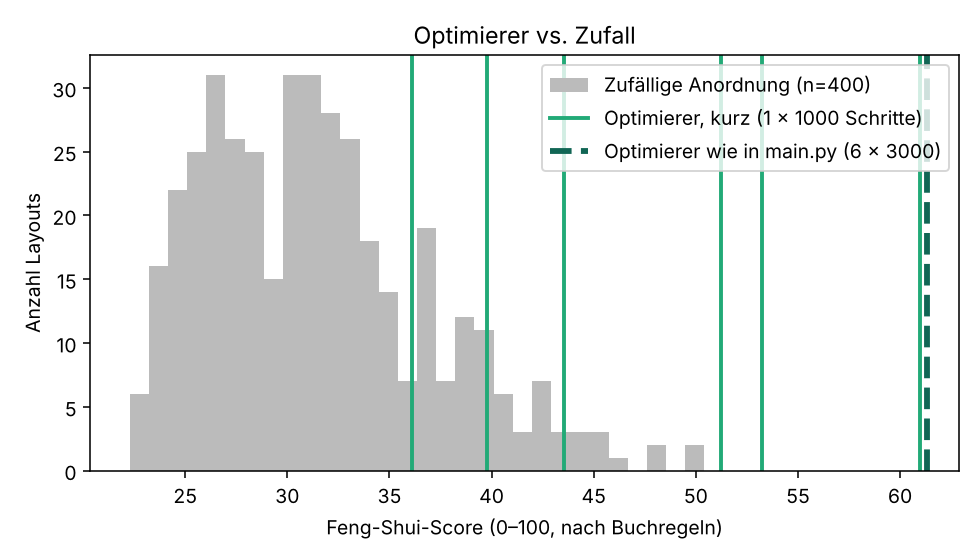
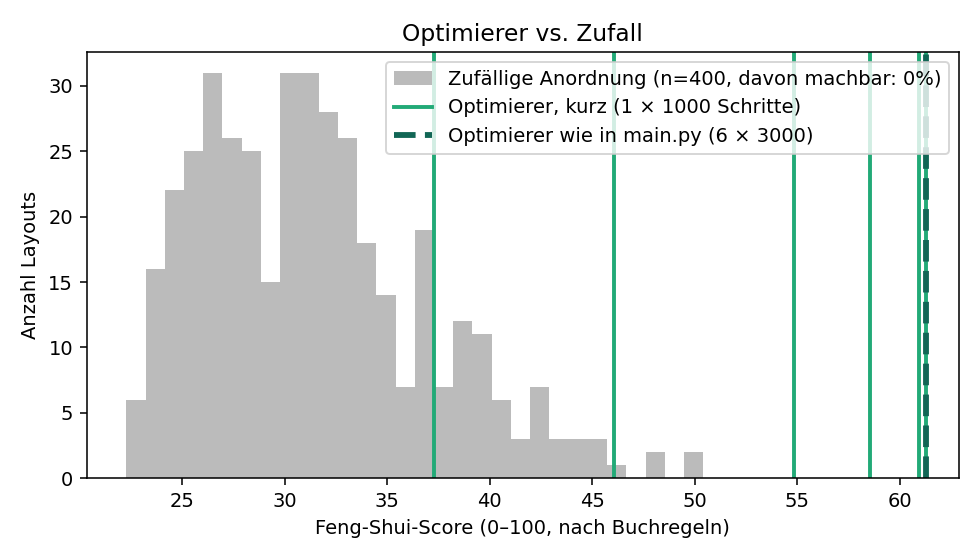
Auswertung neu erzeugt (Teil 3: Regeln vs. Noten aus Runde 2)
Claude-Session: https://claude.ai/code/session_01As1qSZcAvSGUDP122UFEWe

diff --git a/auswertung/bericht_auswertung.md b/auswertung/bericht_auswertung.md
@@ -1,6 +1,6 @@
 # Auswertung FengshuiML
 
-Erzeugt mit `auswertung.py` am 29.10.2026 16:21 (Zufalls-Seed 2026).
+Erzeugt mit `auswertung.py` am 30.10.2026 17:25 (Zufalls-Seed 2026).
 
 ## 1. Optimierer (Simulated Annealing) vs. Zufall
 
@@ -8,12 +8,12 @@ Erzeugt mit `auswertung.py` am 29.10.2026 16:21 (Zufalls-Seed 2026).
 |---|---|---|
 | Anzahl Layouts | 400 | 6 Läufe |
 | davon machbar (harte Regeln erfüllt) | 0% | 100% |
-| Score Mittelwert | 31.4 | 47.5 |
-| Score der machbaren (Mittelwert) | – (keines machbar) | 47.5 |
-| Bester Zufallswert / schlechtester Optimierer-Lauf | 50.4 | 36.1 |
-| Rechenzeit pro Lauf | – | 1.0 s |
+| Score Mittelwert | 31.4 | 53.2 |
+| Score der machbaren (Mittelwert) | – (keines machbar) | 53.2 |
+| Bester Zufallswert / schlechtester Optimierer-Lauf | 50.4 | 37.3 |
+| Rechenzeit pro Lauf | – | 0.7 s |
 
-Mit der Einstellung aus `main.py` (6 Neustarts × 3000 Schritte): Score 61.3, machbar, 18 s.
+Mit der Einstellung aus `main.py` (6 Neustarts × 3000 Schritte): Score 61.3, machbar, 12 s.
 
 Zufällig an die Wände gestellte Möbel verletzen praktisch immer eine harte Regel (Überlappung, Tür, Laufweg) – ohne Suche gibt es also gar keine brauchbare Einrichtung.
 
@@ -25,56 +25,68 @@ Ist-Zustände: 8 plausibel, aber nicht optimal eingerichtete Varianten deines Zi
 
 | Zimmer | Score vorher | Score nachher | Änderungen | davon < 30 cm |
 |---|---|---|---|---|
-| 1 | 32.0 | 47.8 | 2 | 0 |
-| 2 | 24.5 | 31.5 | 1 | 0 |
-| 3 | 34.3 | 34.3 | 0 | 0 |
-| 4 | 47.3 | 58.3 | 2 | 0 |
+| 1 | 35.1 ⚠ | 50.3 | 3 | 0 |
+| 2 | 25.2 | 38.8 | 1 | 0 |
+| 3 | 26.9 | 61.2 | 5 | 0 |
+| 4 | 41.4 | 41.4 | 0 | 0 |
 | 5 | 35.0 | 35.0 | 0 | 0 |
-| 6 | 35.3 | 53.1 | 3 | 0 |
-| 7 | 39.2 ⚠ | 56.6 | 4 | 0 |
-| 8 | 41.6 | 41.6 | 0 | 0 |
+| 6 | 35.7 ⚠ | 41.5 | 2 | 0 |
+| 7 | 24.0 | 33.9 | 1 | 0 |
+| 8 | 44.3 ⚠ | 60.9 | 4 | 0 |
 
-Ø Verbesserung: +8.6 Punkte, Ø 1.5 Änderungen, Mini-Verschiebungen insgesamt: 0  (⚠ = Ist-Zustand verletzt eine harte Regel)
+Ø Verbesserung: +11.9 Punkte, Ø 2.0 Änderungen, Mini-Verschiebungen insgesamt: 0  (⚠ = Ist-Zustand verletzt eine harte Regel)
 
 Vorgeschlagene Änderungen mit Begründung:
 
-- Zimmer 1: Schreibtisch: 0.58 m verschieben und drehen (rechts → links) – weil: Tür im Blick (gelöst)
-- Zimmer 1: Kleiderschrank: 0.46 m verschieben und drehen (unten → rechts) – weil: Fenster & Ausblick nicht verstellen (gelöst)
-- Zimmer 2: Schreibtisch: 0.21 m verschieben und drehen (oben → links) – weil: Tür im Blick (gelöst)
-- Zimmer 3: keine Änderung (Umstellen lohnt sich nicht)
-- Zimmer 4: Schreibtisch: 0.48 m verschieben und drehen (oben → links) – weil: Tür im Blick (gelöst)
-- Zimmer 4: Kleiderschrank: 1.34 m verschieben – weil: Fenster & Ausblick nicht verstellen (gelöst)
+- Zimmer 1: Schreibtisch: 0.21 m verschieben und drehen (unten → links) – weil: Schildkröte: feste Wand im Rücken (gelöst)
+- Zimmer 1: Kleiderschrank: 1.11 m verschieben und drehen (unten → rechts) – weil: Kein hohes Möbel vor dem Fenster (gelöst)
+- Zimmer 1: Monstera: 1.49 m verschieben – weil: Pflanzen: Licht ja, Bett nein (besser)
+- Zimmer 2: Schreibtisch: 0.40 m verschieben und drehen (rechts → oben) – weil: Schildkröte: feste Wand im Rücken (besser)
+- Zimmer 3: Bett: 1.71 m verschieben und drehen (rechts → links) – weil: Nicht in der Chi-Bahn Tür ↔ Fenster (besser)
+- Zimmer 3: Schreibtisch: 1.72 m verschieben und drehen (oben → unten) – weil: Schildkröte: feste Wand im Rücken (gelöst)
+- Zimmer 3: Kleiderschrank: 3.19 m verschieben und drehen (links → rechts) – weil: macht Platz für die anderen Änderungen
+- Zimmer 3: Monstera: 2.93 m verschieben – weil: Pflanzen: Licht ja, Bett nein (gelöst)
+- Zimmer 3: Spiegel: 4.69 m verschieben und drehen (rechts → links) – weil: Spiegel richtig platzieren (besser)
+- Zimmer 4: keine Änderung (Umstellen lohnt sich nicht)
 - Zimmer 5: keine Änderung (Umstellen lohnt sich nicht)
-- Zimmer 6: Bett: 1.52 m verschieben – weil: Abstand zur Tür (gelöst)
-- Zimmer 6: Schreibtisch: 3.01 m verschieben – weil: Schildkröte: feste Wand im Rücken (gelöst)
-- Zimmer 6: Kleiderschrank: 2.71 m verschieben und drehen (unten → rechts) – weil: Fenster & Ausblick nicht verstellen (gelöst)
-- Zimmer 7: Bett: 2.03 m verschieben und drehen (unten → links) – weil: Kein Fenster im Rücken (gelöst)
-- Zimmer 7: Schreibtisch: 2.21 m verschieben und drehen (rechts → unten) – weil: Laufwege frei (≥ 60 cm) (gelöst)
-- Zimmer 7: Kleiderschrank: 2.68 m verschieben – weil: macht Platz für die anderen Änderungen
-- Zimmer 7: Monstera: 0.50 m verschieben – weil: Pflanzen: Licht ja, Bett nein (besser)
-- Zimmer 8: keine Änderung (Umstellen lohnt sich nicht)
+- Zimmer 6: Kleiderschrank: 3.44 m verschieben und drehen (unten → rechts) – weil: Kein hohes Möbel vor dem Fenster (gelöst)
+- Zimmer 6: Spiegel: 1.61 m verschieben – weil: Spiegel richtig platzieren (besser)
+- Zimmer 7: Schreibtisch: 0.27 m verschieben und drehen (oben → links) – weil: Tür im Blick (gelöst)
+- Zimmer 8: Bett: 1.97 m verschieben und drehen (unten → links) – weil: Kein Fenster im Rücken (gelöst)
+- Zimmer 8: Schreibtisch: 1.87 m verschieben und drehen (oben → unten) – weil: Tür im Blick (gelöst)
+- Zimmer 8: Monstera: 1.30 m verschieben und drehen (rechts → unten) – weil: Pflanzen: Licht ja, Bett nein (gelöst)
+- Zimmer 8: Spiegel: 0.58 m verschieben und drehen (unten → links) – weil: Spiegel richtig platzieren (besser)
 
-## 3. Simulationsstudie: Lernt das Modell einen Geschmack?
+## 3. Treffen die Regeln das Gefühl? (Noten aus dem Bewertungsbogen)
 
-6 virtuelle Testpersonen mit bekanntem Geschmack (zufällig: manche Regeln egal, manche bis 3× so wichtig wie im Buch) bewerten Layouts – mit Rauschen (±0.8 Noten) und halben Noten wie echte Menschen. Gemessen wird, wie gut das Modell die Reihenfolge von 60 *nicht* bewerteten Layouts trifft (Rangkorrelation nach Spearman, 1 = perfekt).
+Die Regeln stammen aus dem Buch, ergänzt um Menschenverstand-Regeln für Lücken im Buch. Die Noten ändern die Regeln nicht – sie prüfen, ob die Reihenfolge nach Regel-Score zur Reihenfolge nach Gefühl passt (Rangkorrelation nach Spearman: 1 = gleiche Reihenfolge, 0 = kein Zusammenhang).
 
-| Bewertungen | Personalisiert ρ | Nur Buch ρ | Personalisiert Fehler Ø | Nur Buch Fehler Ø |
-|---|---|---|---|---|
-| 5 | 0.78 ± 0.13 | 0.74 ± 0.13 | 1.04 | 1.15 |
-| 8 | 0.82 ± 0.11 | 0.74 ± 0.13 | 0.99 | 1.12 |
-| 12 | 0.83 ± 0.09 | 0.74 ± 0.13 | 0.96 | 1.11 |
-| 20 | 0.89 ± 0.04 | 0.74 ± 0.13 | 0.86 | 1.01 |
-| 30 | 0.92 ± 0.03 | 0.74 ± 0.13 | 0.81 | 1.02 |
-| 40 | 0.94 ± 0.03 | 0.74 ± 0.13 | 0.79 | 1.01 |
+| Runde | Noten | Rangkorrelation ρ |
+|---|---|---|
+| runde2 | 8 | +0.27 |
 
-Grafik: `3_lernkurve_simulation.png`
+```
+Übereinstimmung Regeln ↔ Noten (Rangkorrelation, 8 Noten): +0.27
+  (1 = Regeln treffen dein Gefühl perfekt, 0 = kein Zusammenhang, negativ = eher umgekehrt)
 
-## 4. Eure echten Bewertungen (Leave-one-out-Kreuzvalidierung)
+Größte Abweichungen – hier fehlt vielleicht eine Regel (Kommentare dazu lesen!):
+  runde2 Vorschlag 1: Note 7, Regel-Score 55 → Mensch schlechter als Regeln
+     verletzt laut Buch: K02 Kein Fenster im Rücken, C09 Spiegel spiegelt keine Tür und keinen Fernseher, K16 Bett zentral & symmetrisch
+  runde2 Vorschlag 2: Note 8, Regel-Score 38 → Mensch besser als Regeln
+     verletzt laut Buch: K07 Bett nicht an der Türwand, K05 Füße nicht zum großen Fenster, K02 Kein Fenster im Rücken
+  runde2 Vorschlag 5: Note 7, Regel-Score 53 → Mensch schlechter als Regeln
+     verletzt laut Buch: C02 Spiegel richtig platzieren, K06 Abstand zur Tür, C05 Zonen: Arbeiten vorn, Schlafen hinten
+```
 
-Noch keine `meine_bewertungen.json` – erst mit `lernen.py` bewerten, dann erneut ausführen.
+Grafik: `3_regeln_vs_noten.png`
+
+## 4. Gradient Boosting (Ersatzmodell)
+
+Siehe `auswertung/surrogat_bericht.md` (erzeugt mit `surrogat_trainieren.py`): Gradient Boosting lernt, den Regel-Score vorherzusagen – trainiert auf tausenden automatisch bewerteten Grundrissen, geprüft mit 10-facher Kreuzvalidierung.
+
 
 ## Grenzen
 
 - Der Score misst die Einhaltung der Buchregeln, nicht eine nachgewiesene Wirkung (Feng Shui ist wissenschaftlich nicht belegt).
 - Getestet an einem Zimmer (Maße aus `mein_zimmer.py`); andere Grundrisse können anders abschneiden.
-- Die Simulationsstudie zeigt, dass das Verfahren funktioniert, *wenn* sich Geschmack als gewichtete Regel-Summe beschreiben lässt – ob das für echte Menschen gilt, zeigt erst Teil 4.
+- Wenige Noten von wenigen Personen: Teil 3 ist ein Hinweis, kein Beweis. Die Noten widersprachen sich zwischen Personen und teils bei einer Person (Noten vs. Kommentare) – deshalb lernt das System sie nicht, sondern nutzt sie zum Prüfen und um Lücken im Buch zu finden.
